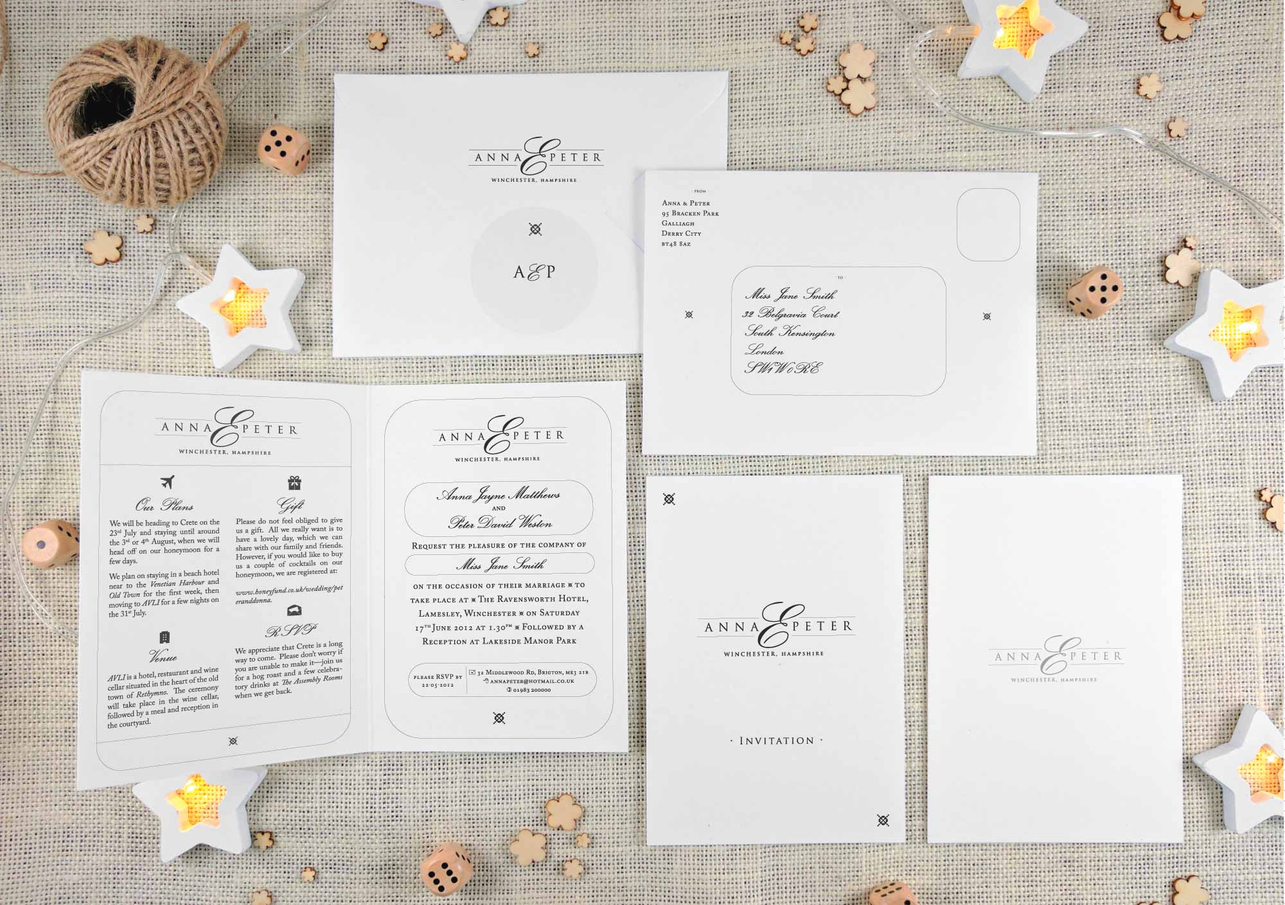
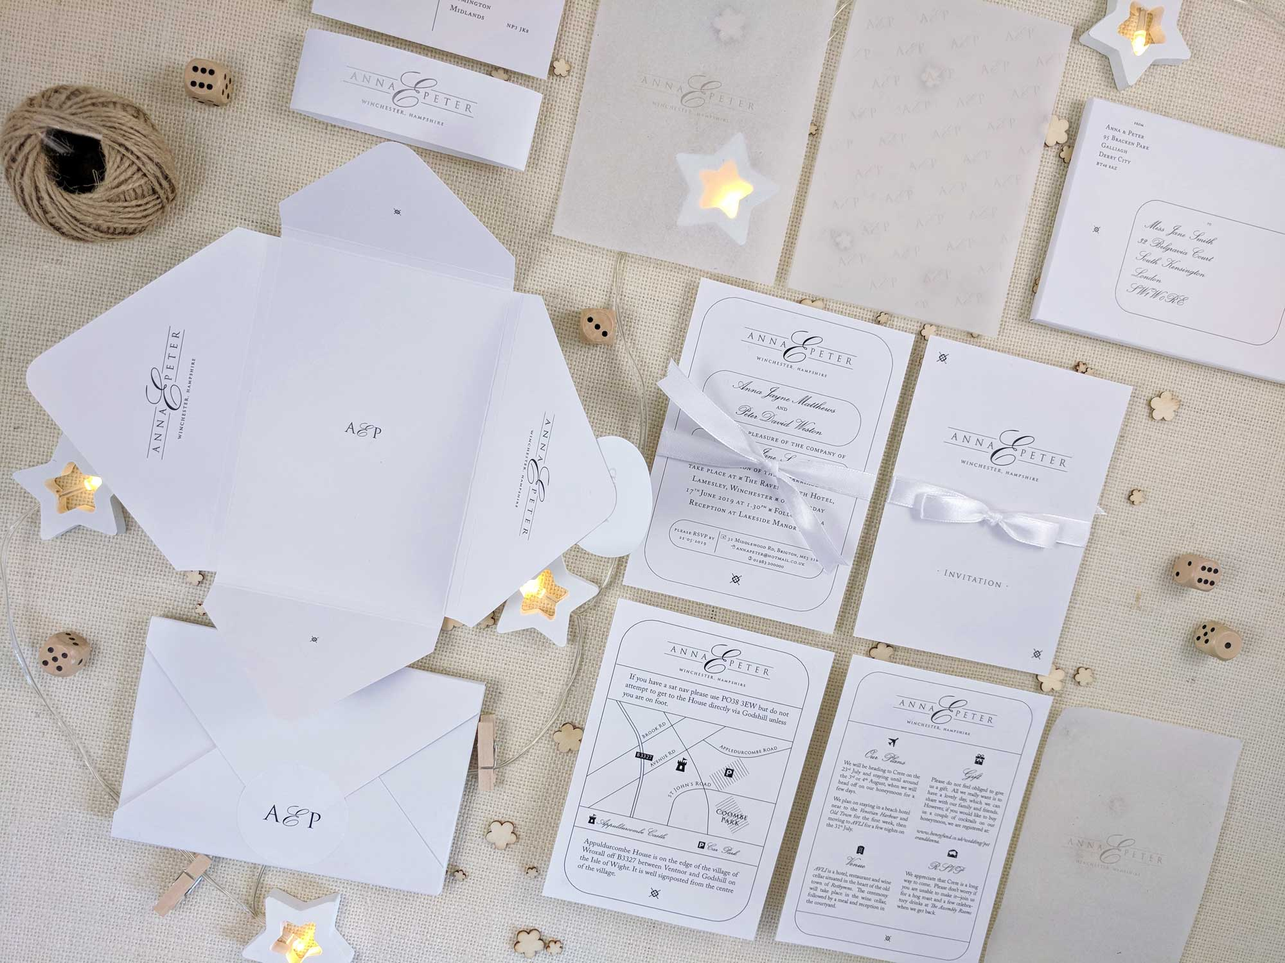
Updated

diff --git a/public/ebay.html b/public/ebay.html
@@ -1,0 +1,104 @@
+<link href="https://fonts.googleapis.com/css?family=Junge|Cinzel|Raleway:300,300i" rel="stylesheet">
+<meta name="viewport" content="initial-scale=1,user-scalable=no">
+<style>
+article { text-align:center; margin:0 auto; line-height:1.3em;padding:0;}
+.cas_video { margin:0 auto; width:70%;display:block; }
+.block { display:block; }
+.centred { margin:0 auto; }
+p { margin:0 auto;font-family:Raleway; line-height:1.4em;}
+.width_50 { width:50%; }
+.width_70 { width:70%; }
+.width_60 { width:60%; }
+.rounded_corner { border-radius:20px; }
+.padding_top_medium { padding-top:1em; }
+.padding_bottom_medium {padding-bottom:1em; }
+.padding_bottom_large{ padding-bottom:2em; }
+.font_bigger {font-size:2.2em; }
+.font_big { font-size:1.6em; }
+.font_medium { font-size:1.4em }
+.font_average { font-size:1.2em; }
+.junge { font-family:Junge, serif }
+.raleway { font-family:Raleway,sans-serif }
+.cinzel { font-family:Cinzel, serif; }
+.border_bottom_solid { border-bottom:1px solid #000; }
+.margin_bottom_medium { margin-bottom:1em; }
+.w60px { width:60px; }
+.w50px {width:50px; }
+.w70px { width:70px; }
+.w80px { width:80px; }
+.w90px { width:90px; }
+.w100px { width:100px; }
+.w150px{ width:150px; }
+.w200px {width:200px; }
+.w250px { width:250px; }
+@media all and (min-width: 100px) and (max-width: 800px) {
+/* ----------------------------------------------------------------------------- */
+.w80px { width:60px;}
+.mob_width_50 { width:50% }
+.mob_width_95 {
+width: 95%;
+margin: 0 auto;
+}
+.mob_full_width {
+width: 100%;
+float: none;
+margin: 0 auto;
+display:block;
+}
+.mob_no_rounded { border-radius:0; }
+.font_bigger { font-size:1.6em }
+.font_big {	font-size: 1.4em }
+.font_medium {	font-size: 1.3em }
+    .font_average { font-size: 1.1em }
+}
+</style>
+<article>
+<video class="cas_video rounded_corner mob_full_width mob_no_rounded" muted="" preload="" loop="" autoplay="" playsinline="" src="https://s3.eu-west-2.amazonaws.com/casamientosilver/mothersday/mothersday_high.mp4">
+<source id="first_video_source" type="video/mp4">
+Your browser does not support the video tag.
+</video>
+<p class="junge padding_top_medium font_bigger width_70 mob_width_95">Say “I love you” this Mother’s Day with a photo printed in silver</p>
+<p class="padding_top_medium font_big junge">That’s right: we said silver.</p>
+<p class="padding_top_medium font_big junge">All mums get flowers for mother’s day, but flowers don't last.</p>
+<p class="padding_top_medium raleway font_average">Our hand-foiled, silver metallic photographs will last a lifetime—the perfect keepsake for your mum—and you won’t find a gift as elegant or as unusual.</p>
+<p class="padding_top_medium raleway font_average">Everyone who sees them reacts with the same mixture of surprise and curiosity:</p>
+<p class="padding_top_medium junge font_medium">...is that silver?</p>
+<p class="padding_top_medium junge font_medium">...how did you make that?!</p>
+<p class="padding_top_medium junge font_medium">...where did you get that made?!</p>
+<p class="padding_top_medium raleway font_average">And with a personalised quote or message of your choice, along with a custom-made monogram featuring your mum’s name and date of birth, your photograph becomes even more intimate.</p>
+<img src="https://s3.eu-west-2.amazonaws.com/casamientosilver/mothersday/motherdaughter_slant_1000.jpg" class="padding_top_medium padding_bottom_medium width_50 rounded_corner mob_full_width mob_no_rounded">
+<p class="padding_top_medium padding_bottom_large font_big junge">Mother's Day is less than 28 days away, so get don't delay, get it sorted today with the following easy steps...</p>
+<div class="cinzel font_bigger padding_bottom_medium border_bottom_solid">Choose your size</div>
+<img src="https://s3.eu-west-2.amazonaws.com/casamientosilver/icons/measure.svg" class="padding_top_medium padding_bottom_medium w80px">
+<p class="font_average raleway width_50 mob_width_95 padding_bottom_medium">We can print your photograph to fit an A4 or A5 frame.</p>
+<p class="font_average raleway width_50 mob_width_95 padding_bottom_medium">You'll receive a free digital preview to look at on your screen, and we'll work with you to make sure everything looks just how you want it before the silver foiling process begins. </p>
+<p class="font_average raleway width_50 mob_width_95 padding_bottom_medium">Your photo can be landscape (wide) or portrait (tall): it doesn't matter.</p>
+<div class="cinzel font_bigger padding_top_medium padding_bottom_medium border_bottom_solid">Choose your frame</div>
+<img src="https://s3.eu-west-2.amazonaws.com/casamientosilver/icons/blackframe.svg" class="padding_top_medium padding_bottom_medium w80px">
+<img src="https://s3.eu-west-2.amazonaws.com/casamientosilver/icons/whiteframe.svg" class="padding_top_medium padding_bottom_medium w80px">
+<p class="font_average raleway width_50 mob_width_95 padding_bottom_medium">Your photograph can be mounted in a frame such as the one shown in the video above for a small extra cost.</p>
+<p class="font_average raleway width_50 mob_width_95">Our frames are simple, elegant and match most decors, and they come in either black or white. They can be hung on the wall, or stood up using the built-in stand: ready to go!</p>
+<div class="cinzel font_bigger padding_top_medium padding_bottom_medium border_bottom_solid">Choose your monogram</div>
+<img src="https://s3.eu-west-2.amazonaws.com/casamientosilver/mothersday/motherdaughtermonogram_1000.jpg" class="block centred width_50">
+<img src="https://s3.eu-west-2.amazonaws.com/casamientosilver/icons/monogram.svg" class="padding_top_medium padding_bottom_medium w80px">
+<p class="font_average raleway width_50 mob_width_95">A monogram is an emblem featuring a name and a date and it's perfect for making your your photograph even more special and personalised. Here are some examples:</p>
+<img src="https://s3.eu-west-2.amazonaws.com/casamientosilver/icons/alice.svg" class="padding_top_medium padding_bottom_medium&nbsp; block centred w200px">
+<img src="https://s3.eu-west-2.amazonaws.com/casamientosilver/icons/clair.svg" class="padding_top_medium padding_bottom_medium&nbsp; block centred w250px">
+<img src="https://s3.eu-west-2.amazonaws.com/casamientosilver/icons/georgina.svg" class="padding_top_medium padding_bottom_medium&nbsp; block centred w100px">
+<img src="https://s3.eu-west-2.amazonaws.com/casamientosilver/icons/joanna.svg" class="padding_top_medium padding_bottom_medium bottom_solid block centred w200px">
+<p class="font_average raleway width_50 padding_top_medium padding_bottom_medium mob_width_95">We can create a monogram for you and print it on your photograph for an extra £5.&nbsp;
+</p><p class="font_average raleway width_50 padding_top_medium padding_bottom_medium mob_width_95">If your photograph contains a picture of your mum and you (or her child if you're purchasing for a mum), we can place two monograms as shown in the photo above for both mum and child.</p>
+<p class="font_average raleway width_50 padding_bottom_medium mob_width_95">Just let us know what you'd like it to say and we'll send a digital preview so you can check everything is how you like it. </p>
+<p class="font_average raleway width_50 padding_top_medium padding_bottom_medium mob_width_95">You'll even get a digital file so you can use it in the future on other personalised cards and gifts!</p>
+<p class="font_average raleway width_50 padding_bottom_medium mob_width_95">You'll receive a complete list of styles to choose from when you order!</p>
+<div class="cinzel font_bigger padding_top_medium padding_bottom_medium border_bottom_solid">Choose your quote or message</div>
+<img src="https://s3.eu-west-2.amazonaws.com/casamientosilver/mothersday/motherdaughter_quote_1000.jpg" class="block centred width_50">
+<img src="https://s3.eu-west-2.amazonaws.com/casamientosilver/icons/chat.svg" class="padding_top_medium padding_bottom_medium w80px">
+<p class="font_average raleway width_50 mob_width_95">A quote comes free of charge. Just let us know in the notes box when you checkout, or let us know in a message after your purchase what you'd like it to say.</p>
+<div class="cinzel font_bigger padding_top_medium padding_bottom_medium border_bottom_solid">Choose your photograph</div>
+<img src="https://s3.eu-west-2.amazonaws.com/casamientosilver/icons/camera.svg" class="padding_top_medium padding_bottom_medium w80px">
+<p class="font_average raleway width_50 padding_bottom_medium mob_width_95">Now the hard bit: choosing which photograph to use! Just email us a photo, send it in an eBay message or if you have an older photo that you'd like us to scan, you can post it to us too.</p>
+<p class="font_average raleway width_50 padding_bottom_medium mob_width_95">Due to the silver foiling process we will convert all images to black and white first and retouch them where appropriate to get you the most impressive results.</p>
+<p class="font_average raleway width_50 padding_bottom_medium mob_width_95">We'll send you a digital preview before printing so you can check everything is perfect, and if you need any advice we're here to help.</p>
+<p class="padding_top_medium font_big junge">If you have any questions about ordering, please send us an eBay message now.</p>
+</article>

diff --git a/public/ebay_simplicity.html b/public/ebay_simplicity.html
@@ -1,0 +1,86 @@
+<link rel="stylesheet" href="//cdn.rawgit.com/necolas/normalize.css/master/normalize.css">
+<link rel="stylesheet" href="//cdn.rawgit.com/milligram/milligram/master/dist/milligram.min.css">
+
+<meta name="viewport" content="initial-scale=1,user-scalable=no">
+<style>
+body {
+  font-family: Raleway,sans-serif
+}
+h1, h2,h3,h4,h5,h6 {font-family:Junge, serif; font-weight:300; }
+.rounded { border-radius:10px; }
+.w100 { width:100% }
+
+.w60px { width:60px; }
+.w50px {width:50px; }
+.w70px { width:70px; }
+.w80px { width:80px; }
+.w90px { width:90px; }
+.w100px { width:100px; }
+.w150px{ width:150px; }
+.w200px {width:200px; }
+.w250px { width:250px; }
+@media all and (min-width: 100px) and (max-width: 800px) {
+/* ----------------------------------------------------------------------------- */
+.w80px { width:60px;}
+
+.mob_no_rounded { border-radius:0; }
+.font_bigger { font-size:1.6em }
+.font_big {	font-size: 1.4em }
+.font_medium {	font-size: 1.3em }
+    .font_average { font-size: 1.1em }
+}
+</style>
+    <div class="container">
+                
+<video class="w100 rounded" muted="" preload="" loop="" autoplay="" playsinline="" src="https://s3.eu-west-2.amazonaws.com/casamientosilver/mothersday/mothersday_high.mp4">
+<source id="first_video_source" type="video/mp4">
+Your browser does not support the video tag.
+</video>
+        </div>
+        
+        <div class="container">
+<h2>Say “I love you” this Mother’s Day with a photo printed in silver</h2>
+<p>That’s right: we said silver.</p>
+<p class="padding_top_medium font_big junge">All mums get flowers for mother’s day, but flowers don't last.</p>
+<p class="padding_top_medium raleway font_average">Our hand-foiled, silver metallic photographs will last a lifetime—the perfect keepsake for your mum—and you won’t find a gift as elegant or as unusual.</p>
+<p class="padding_top_medium raleway font_average">Everyone who sees them reacts with the same mixture of surprise and curiosity:</p>
+<p class="padding_top_medium junge font_medium">...is that silver?</p>
+<p class="padding_top_medium junge font_medium">...how did you make that?!</p>
+<p class="padding_top_medium junge font_medium">...where did you get that made?!</p>
+<p class="padding_top_medium raleway font_average">And with a personalised quote or message of your choice, along with a custom-made monogram featuring your mum’s name and date of birth, your photograph becomes even more intimate.</p>
+<img src="https://s3.eu-west-2.amazonaws.com/casamientosilver/mothersday/motherdaughter_slant_1000.jpg" class="padding_top_medium padding_bottom_medium width_50 rounded_corner mob_full_width mob_no_rounded">
+<p class="padding_top_medium padding_bottom_large font_big junge">Mother's Day is less than 28 days away, so get don't delay, get it sorted today with the following easy steps...</p>
+<div class="cinzel font_bigger padding_bottom_medium border_bottom_solid">Choose your size</div>
+<img src="https://s3.eu-west-2.amazonaws.com/casamientosilver/icons/measure.svg" class="padding_top_medium padding_bottom_medium w80px">
+<p class="font_average raleway width_50 mob_width_95 padding_bottom_medium">We can print your photograph to fit an A4 or A5 frame.</p>
+<p class="font_average raleway width_50 mob_width_95 padding_bottom_medium">You'll receive a free digital preview to look at on your screen, and we'll work with you to make sure everything looks just how you want it before the silver foiling process begins. </p>
+<p class="font_average raleway width_50 mob_width_95 padding_bottom_medium">Your photo can be landscape (wide) or portrait (tall): it doesn't matter.</p>
+<div class="cinzel font_bigger padding_top_medium padding_bottom_medium border_bottom_solid">Choose your frame</div>
+<img src="https://s3.eu-west-2.amazonaws.com/casamientosilver/icons/blackframe.svg" class="padding_top_medium padding_bottom_medium w80px">
+<img src="https://s3.eu-west-2.amazonaws.com/casamientosilver/icons/whiteframe.svg" class="padding_top_medium padding_bottom_medium w80px">
+<p class="font_average raleway width_50 mob_width_95 padding_bottom_medium">Your photograph can be mounted in a frame such as the one shown in the video above for a small extra cost.</p>
+<p class="font_average raleway width_50 mob_width_95">Our frames are simple, elegant and match most decors, and they come in either black or white. They can be hung on the wall, or stood up using the built-in stand: ready to go!</p>
+<div class="cinzel font_bigger padding_top_medium padding_bottom_medium border_bottom_solid">Choose your monogram</div>
+<img src="https://s3.eu-west-2.amazonaws.com/casamientosilver/mothersday/motherdaughtermonogram_1000.jpg" class="block centred width_50">
+<img src="https://s3.eu-west-2.amazonaws.com/casamientosilver/icons/monogram.svg" class="padding_top_medium padding_bottom_medium w80px">
+<p class="font_average raleway width_50 mob_width_95">A monogram is an emblem featuring a name and a date and it's perfect for making your your photograph even more special and personalised. Here are some examples:</p>
+<img src="https://s3.eu-west-2.amazonaws.com/casamientosilver/icons/alice.svg" class="padding_top_medium padding_bottom_medium&nbsp; block centred w200px">
+<img src="https://s3.eu-west-2.amazonaws.com/casamientosilver/icons/clair.svg" class="padding_top_medium padding_bottom_medium&nbsp; block centred w250px">
+<img src="https://s3.eu-west-2.amazonaws.com/casamientosilver/icons/georgina.svg" class="padding_top_medium padding_bottom_medium&nbsp; block centred w100px">
+<img src="https://s3.eu-west-2.amazonaws.com/casamientosilver/icons/joanna.svg" class="padding_top_medium padding_bottom_medium bottom_solid block centred w200px">
+<p class="font_average raleway width_50 padding_top_medium padding_bottom_medium mob_width_95">We can create a monogram for you and print it on your photograph for an extra £5.&nbsp;
+</p><p class="font_average raleway width_50 padding_top_medium padding_bottom_medium mob_width_95">If your photograph contains a picture of your mum and you (or her child if you're purchasing for a mum), we can place two monograms as shown in the photo above for both mum and child.</p>
+<p class="font_average raleway width_50 padding_bottom_medium mob_width_95">Just let us know what you'd like it to say and we'll send a digital preview so you can check everything is how you like it. </p>
+<p class="font_average raleway width_50 padding_top_medium padding_bottom_medium mob_width_95">You'll even get a digital file so you can use it in the future on other personalised cards and gifts!</p>
+<p class="font_average raleway width_50 padding_bottom_medium mob_width_95">You'll receive a complete list of styles to choose from when you order!</p>
+<div class="cinzel font_bigger padding_top_medium padding_bottom_medium border_bottom_solid">Choose your quote or message</div>
+<img src="https://s3.eu-west-2.amazonaws.com/casamientosilver/mothersday/motherdaughter_quote_1000.jpg" class="block centred width_50">
+<img src="https://s3.eu-west-2.amazonaws.com/casamientosilver/icons/chat.svg" class="padding_top_medium padding_bottom_medium w80px">
+<p class="font_average raleway width_50 mob_width_95">A quote comes free of charge. Just let us know in the notes box when you checkout, or let us know in a message after your purchase what you'd like it to say.</p>
+<div class="cinzel font_bigger padding_top_medium padding_bottom_medium border_bottom_solid">Choose your photograph</div>
+<img src="https://s3.eu-west-2.amazonaws.com/casamientosilver/icons/camera.svg" class="padding_top_medium padding_bottom_medium w80px">
+<p class="font_average raleway width_50 padding_bottom_medium mob_width_95">Now the hard bit: choosing which photograph to use! Just email us a photo, send it in an eBay message or if you have an older photo that you'd like us to scan, you can post it to us too.</p>
+<p class="font_average raleway width_50 padding_bottom_medium mob_width_95">Due to the silver foiling process we will convert all images to black and white first and retouch them where appropriate to get you the most impressive results.</p>
+<p class="font_average raleway width_50 padding_bottom_medium mob_width_95">We'll send you a digital preview before printing so you can check everything is perfect, and if you need any advice we're here to help.</p>
+<p class="padding_top_medium font_big junge">If you have any questions about ordering, please send us an eBay message now.</p>
+</div>

diff --git a/public/milligram.html b/public/milligram.html
@@ -1,0 +1,44 @@
+<!DOCTYPE html>
+
+<link rel="stylesheet" href="//fonts.googleapis.com/css?family=Roboto:300,300italic,700,700italic">
+<link rel="stylesheet" href="//cdn.rawgit.com/necolas/normalize.css/master/normalize.css">
+<link rel="stylesheet" href="//cdn.rawgit.com/milligram/milligram/master/dist/milligram.min.css">
+<html>
+    <head>
+        <meta name="viewport" content="initial-scale=1,user-scalable=no">
+    </head>
+<body>
+    <div class="container">
+    <h1>Hello my name is David</h1>
+    </div>
+    <div class="container">
+        <div class="row">
+            <div class="column"><h2>
+Lorem ipsum dolor sit amet, consectetur adipiscing elit. Nunc eu augue ornare, lobortis quam sit amet, finibus orci. Duis tellus ante, feugiat sed nulla ac, molestie vehicula nulla. Sed sed nisi arcu. Suspendisse urna erat, rhoncus quis metus eu, eleifend sodales nisl. Donec at ipsum sapien. Vestibulum ante ipsum primis in faucibus orci luctus et ultrices posuere cubilia Curae; Proin auctor maximus convallis. Pellentesque aliquet lacinia urna, sed feugiat mauris malesuada quis. Integer semper non odio sit amet lobortis.
+
+Quisque semper nulla in quam vulputate pharetra. Integer interdum ultricies urna quis congue. Praesent magna erat, consequat volutpat odio sed, aliquet sollicitudin sem. Curabitur ultricies neque eu maximus aliquam. Fusce euismod, nisl in varius viverra, turpis diam dignissim purus, bibendum vestibulum dolor dui quis risus. Suspendisse et massa mattis, porttitor purus at, lobortis urna. Ut a condimentum neque, eget dignissim lectus. Ut dictum, lacus id eleifend rhoncus, tortor purus ullamcorper leo, a ultricies lectus leo nec erat. Mauris molestie aliquet augue, in ullamcorper eros egestas ac.
+
+Orci varius natoque penatibus et magnis dis parturient montes, nascetur ridiculus mus. Donec auctor eros vel facilisis auctor. Donec semper tincidunt tincidunt. Suspendisse luctus est vitae porta semper. Cras mattis lacus et est rutrum aliquet. Morbi scelerisque dictum metus, id vestibulum lectus venenatis a. Praesent volutpat mattis sem id dapibus. Integer varius et urna a interdum. In vel metus neque. Nulla eget dolor nisl. Curabitur dignissim non est nec accumsan. Phasellus non ipsum id dui aliquam fringilla. Nam eget est ante. Etiam sit amet ligula ante.
+
+Etiam ut enim mollis, dignissim erat vel, pulvinar lectus. Suspendisse ornare venenatis tristique. Nunc erat elit, malesuada id purus sit amet, laoreet varius lacus. Duis venenatis, nisi eget efficitur tincidunt, urna massa mattis justo, eu ultricies felis orci a tortor. Nullam facilisis erat sapien, quis tempor eros semper eget. Curabitur ipsum nibh, finibus in rhoncus vel, malesuada quis elit. Suspendisse potenti. Praesent nisi quam, varius porttitor diam nec, posuere vulputate turpis. Cras lacinia, arcu eget ultrices semper, leo lacus iaculis lacus, at rutrum enim ipsum vitae nisi. Curabitur elementum mi at sem pretium, non tempor neque rutrum. Sed quis augue auctor, imperdiet velit vitae, pellentesque dui.</h2></div>
+
+            <div class="column"><h3>
+Lorem ipsum dolor sit amet, consectetur adipiscing elit. Nunc eu augue ornare, lobortis quam sit amet, finibus orci. Duis tellus ante, feugiat sed nulla ac, molestie vehicula nulla. Sed sed nisi arcu. Suspendisse urna erat, rhoncus quis metus eu, eleifend sodales nisl. Donec at ipsum sapien. Vestibulum ante ipsum primis in faucibus orci luctus et ultrices posuere cubilia Curae; Proin auctor maximus convallis. Pellentesque aliquet lacinia urna, sed feugiat mauris malesuada quis. Integer semper non odio sit amet lobortis.
+
+Quisque semper nulla in quam vulputate pharetra. Integer interdum ultricies urna quis congue. Praesent magna erat, consequat volutpat odio sed, aliquet sollicitudin sem. Curabitur ultricies neque eu maximus aliquam. Fusce euismod, nisl in varius viverra, turpis diam dignissim purus, bibendum vestibulum dolor dui quis risus. Suspendisse et massa mattis, porttitor purus at, lobortis urna. Ut a condimentum neque, eget dignissim lectus. Ut dictum, lacus id eleifend rhoncus, tortor purus ullamcorper leo, a ultricies lectus leo nec erat. Mauris molestie aliquet augue, in ullamcorper eros egestas ac.
+
+Orci varius natoque penatibus et magnis dis parturient montes, nascetur ridiculus mus. Donec auctor eros vel facilisis auctor. Donec semper tincidunt tincidunt. Suspendisse luctus est vitae porta semper. Cras mattis lacus et est rutrum aliquet. Morbi scelerisque dictum metus, id vestibulum lectus venenatis a. Praesent volutpat mattis sem id dapibus. Integer varius et urna a interdum. In vel metus neque. Nulla eget dolor nisl. Curabitur dignissim non est nec accumsan. Phasellus non ipsum id dui aliquam fringilla. Nam eget est ante. Etiam sit amet ligula ante.
+
+Etiam ut enim mollis, dignissim erat vel, pulvinar lectus. Suspendisse ornare venenatis tristique. Nunc erat elit, malesuada id purus sit amet, laoreet varius lacus. Duis venenatis, nisi eget efficitur tincidunt, urna massa mattis justo, eu ultricies felis orci a tortor. Nullam facilisis erat sapien, quis tempor eros semper eget. Curabitur ipsum nibh, finibus in rhoncus vel, malesuada quis elit. Suspendisse potenti. Praesent nisi quam, varius porttitor diam nec, posuere vulputate turpis. Cras lacinia, arcu eget ultrices semper, leo lacus iaculis lacus, at rutrum enim ipsum vitae nisi. Curabitur elementum mi at sem pretium, non tempor neque rutrum. Sed quis augue auctor, imperdiet velit vitae, pellentesque dui.</h3></div>
+  <div class="column"><h4>
+Lorem ipsum dolor sit amet, consectetur adipiscing elit. Nunc eu augue ornare, lobortis quam sit amet, finibus orci. Duis tellus ante, feugiat sed nulla ac, molestie vehicula nulla. Sed sed nisi arcu. Suspendisse urna erat, rhoncus quis metus eu, eleifend sodales nisl. Donec at ipsum sapien. Vestibulum ante ipsum primis in faucibus orci luctus et ultrices posuere cubilia Curae; Proin auctor maximus convallis. Pellentesque aliquet lacinia urna, sed feugiat mauris malesuada quis. Integer semper non odio sit amet lobortis.
+
+Quisque semper nulla in quam vulputate pharetra. Integer interdum ultricies urna quis congue. Praesent magna erat, consequat volutpat odio sed, aliquet sollicitudin sem. Curabitur ultricies neque eu maximus aliquam. Fusce euismod, nisl in varius viverra, turpis diam dignissim purus, bibendum vestibulum dolor dui quis risus. Suspendisse et massa mattis, porttitor purus at, lobortis urna. Ut a condimentum neque, eget dignissim lectus. Ut dictum, lacus id eleifend rhoncus, tortor purus ullamcorper leo, a ultricies lectus leo nec erat. Mauris molestie aliquet augue, in ullamcorper eros egestas ac.
+
+Orci varius natoque penatibus et magnis dis parturient montes, nascetur ridiculus mus. Donec auctor eros vel facilisis auctor. Donec semper tincidunt tincidunt. Suspendisse luctus est vitae porta semper. Cras mattis lacus et est rutrum aliquet. Morbi scelerisque dictum metus, id vestibulum lectus venenatis a. Praesent volutpat mattis sem id dapibus. Integer varius et urna a interdum. In vel metus neque. Nulla eget dolor nisl. Curabitur dignissim non est nec accumsan. Phasellus non ipsum id dui aliquam fringilla. Nam eget est ante. Etiam sit amet ligula ante.
+
+Etiam ut enim mollis, dignissim erat vel, pulvinar lectus. Suspendisse ornare venenatis tristique. Nunc erat elit, malesuada id purus sit amet, laoreet varius lacus. Duis venenatis, nisi eget efficitur tincidunt, urna massa mattis justo, eu ultricies felis orci a tortor. Nullam facilisis erat sapien, quis tempor eros semper eget. Curabitur ipsum nibh, finibus in rhoncus vel, malesuada quis elit. Suspendisse potenti. Praesent nisi quam, varius porttitor diam nec, posuere vulputate turpis. Cras lacinia, arcu eget ultrices semper, leo lacus iaculis lacus, at rutrum enim ipsum vitae nisi. Curabitur elementum mi at sem pretium, non tempor neque rutrum. Sed quis augue auctor, imperdiet velit vitae, pellentesque dui.</h4></div>
+        </div>
+    </div>
+</body>
+</html>

diff --git a/controllers/products/index.js b/controllers/products/index.js
@@ -33,7 +33,7 @@ exports.show = function(req, res) {
         findProduct(db, id, function(results) {
             var product = results[0].name
             var path = "public/images/invitations/" + product
-            var images = ["collage", "boxenvelope", "closeup", "info", "envelope", "vellum", "rsvp"];
+            var images = ["collage", "box_envelope_angle", "boxenvelope_invitefront", "flat_angle_ribbon", "wrap", "info", "flat_wording_overhead", "seals", "wraps", "flat_ribbon", "map", "foldout","boxenvelope_overhead", "rsvp", "boxenvelope_tissue", "boxenvelope_vellum"];
             var existing_images = []
             images.forEach(function(img) {
                 if (fs.existsSync(__dirname + "/../../" + path + "/" + img + "_2000.jpg")) {
